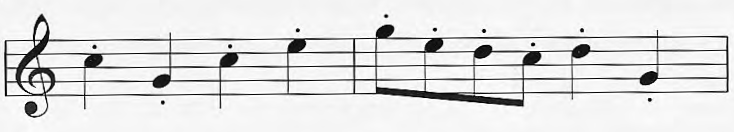
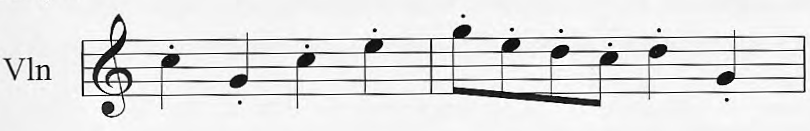
extract_partituri: scanare 0/-10/+10 grade de sus in jos, linii gri (nu alb inchis), L=1/10 din latime, includerea randurilor de text singure langa partitura, oprire la bara de masura + gol (nu mai lipeste portative vecine), albire paragrafe pe imaginea de decizie

diff --git a/extract_partituri.py b/extract_partituri.py
@@ -89,7 +89,9 @@ except ImportError:
 # ---------------------------------------------------------------------------
 ALB = 235           # pixel >= ALB  -> "alb sau aproape alb" (nu gri)
 GRI_INCHIS = 140    # pixel <  GRI_INCHIS -> cerneala (negru / gri inchis)
-CERNEALA = 200      # pixel <  CERNEALA -> poate fi linie (negru sau gri)
+CERNEALA = 208      # pixel <  CERNEALA -> poate fi linie: negru SAU gri,
+                    # dar nu gri foarte deschis (ala e "alb inchis")
+FRACT_LATIME = 0.10 # lungimea minima a liniilor cautate ~ 1/10 din latimea paginii
 PRAG_COLOR = 22     # diferenta max intre canalele R/G/B ca un pixel sa fie "gri"
 FRACT_COLOR = 0.02  # >2% pixeli colorati -> imaginea e "color"
 ACOPERIRE_SCAN = 0.8  # o imagine care acopera >=80% din pagina = scanul paginii
@@ -356,15 +358,20 @@ def etapa2_filtrare_imagini(doc, zone_sterse):
 # ETAPA 3 - detectarea partiturilor (segmente de linie + grupare)
 # ===========================================================================
 def segmente_orizontale(gray, masca_permisa, dpi):
-    """Gaseste SEGMENTELE de linie orizontala (gri sau negre) din imagine,
-    folosind o fereastra plata 1 x L (deschidere morfologica): raman doar
-    pixelii care fac parte din serii orizontale continue de cel putin L.
+    """Gaseste SEGMENTELE de linie orizontala din imagine, folosind o
+    fereastra plata 1 x L (deschidere morfologica): raman doar pixelii
+    care fac parte din serii orizontale continue de cel putin L.
+
+    Fereastra "se deplaseaza de sus in jos": segmentele sunt intoarse in
+    ordinea de sus in jos a paginii. Liniile cautate pot fi NEGRE sau GRI
+    (pixel < CERNEALA), dar nu gri foarte deschis (ala e alb inchis).
+    Lungimea de scanare L este ~1/10 din LATIMEA paginii.
 
     Intoarce lista de (y_centru, x_stanga, x_dreapta), doar linii SUBTIRI
     (liniile de portativ au 1-3 pixeli; textul si pozele sunt mai inalte).
     """
-    L = max(40, int(dpi * 0.30))                 # ~0.8 cm la 200 dpi
-    grosime_max = max(4, int(round(dpi / 30.0))) # ~7 px la 200 dpi
+    L = max(20, int(round(gray.shape[1] * FRACT_LATIME)))  # ~1/10 din latime
+    grosime_max = max(4, int(round(dpi / 30.0)))           # ~7 px la 200 dpi
     binar = ((gray < CERNEALA) & masca_permisa).astype(np.uint8)
     deschis = cv2.morphologyEx(binar, cv2.MORPH_OPEN, np.ones((1, L), np.uint8))
     n, _, stats, cent = cv2.connectedComponentsWithStats(deschis, 8)
@@ -438,11 +445,15 @@ def grupeaza_segmente(segs, gray, dpi):
     return [g["linii"] for g in grupuri if len(g["linii"]) >= 2]
 
 
-def rafineaza_chenar(rot, x0, y0, x1, y1, interlinie, si_vertical=True):
+def rafineaza_chenar(rot, x0, y0, x1, y1, interlinie, si_vertical=True, miez=None):
     """Extinde chenarul unei partituri (in imaginea deja indreptata) pana
     intalneste spatiu alb in toate directiile, cu o toleranta de ~1.5
     interlinii (ca sa prinda notele, codiletele, legato-urile si liniile
-    de portativ ratate de detectie), apoi adauga o margine alba mica."""
+    de portativ ratate de detectie), apoi adauga o margine alba mica.
+
+    Extinderea ORIZONTALA se uita doar in banda miezului (liniile
+    portativului +/- 2 interlinii), ca sa nu "mearga" pe randurile de
+    text/legendele portativului vecin, aflate mai sus sau mai jos."""
     h, w = rot.shape
     look = max(6, int(interlinie * 1.5))
     look_x = max(5, int(interlinie))   # orizontal mai strans: nu lipim
@@ -465,21 +476,46 @@ def rafineaza_chenar(rot, x0, y0, x1, y1, interlinie, si_vertical=True):
         if rnd.size == 0:
             break
         y1 = y1 + int(rnd[-1]) + 1
-    # stanga
+    # stanga / dreapta: doar in banda miezului (liniile +/- 2 interlinii)
+    if miez is not None:
+        hy0 = max(y0, int(miez[0] - 2 * interlinie))
+        hy1 = min(y1, int(miez[1] + 2 * interlinie))
+    else:
+        hy0, hy1 = y0, y1
+
+    def _bara_la_margine(xa, xb):
+        """Exista o bara de masura (linie verticala pe toata inaltimea
+        miezului) intre coloanele xa..xb? Un portativ terminat cu bara,
+        urmat de gol, NU se mai extinde peste gol (acolo incepe
+        portativul vecin)."""
+        if miez is None:
+            return False
+        my0 = max(0, int(miez[0] - 2)); my1 = min(h, int(miez[1] + 3))
+        banda = rot[my0:my1, max(0, xa):min(w, xb)]
+        if banda.size == 0:
+            return False
+        col_ink = (banda < CERNEALA).mean(axis=0)
+        return bool((col_ink >= 0.85).any())
+
     limita = max(0, x0 - lim_x)
     while x0 > limita:
-        banda = rot[y0:y1, max(0, x0 - look_x):x0]
+        banda = rot[hy0:hy1, max(0, x0 - look_x):x0]
         col = np.where((banda < CERNEALA).any(axis=0))[0]
         if col.size == 0:
             break
+        gol = banda.shape[1] - 1 - int(col[-1])
+        if gol >= 3 and _bara_la_margine(x0, x0 + int(2 * interlinie)):
+            break  # portativul incepe cu bara, golul e al vecinului
         x0 = max(0, x0 - look_x) + int(col[0])
     # dreapta
     limita = min(w, x1 + lim_x)
     while x1 < limita:
-        banda = rot[y0:y1, x1:min(w, x1 + look_x)]
+        banda = rot[hy0:hy1, x1:min(w, x1 + look_x)]
         col = np.where((banda < CERNEALA).any(axis=0))[0]
         if col.size == 0:
             break
+        if int(col[0]) >= 3 and _bara_la_margine(x1 - int(2 * interlinie), x1):
+            break  # portativ terminat cu bara + gol -> nu sarim golul
         x1 = x1 + int(col[-1]) + 1
 
     # margine alba mica de jur imprejur (orizontal mai putin, ca sa nu
@@ -522,47 +558,134 @@ def crop_arata_a_partitura(crop):
     return alb >= 0.45 and gri <= 0.30
 
 
-def masca_text_pagina(page, majoritar, dpi, shape):
-    """Masca (True = text de corp) construita din stratul de text al
-    paginii: randurile LUNGI scrise majoritar cu formatul majoritar.
-    Randurile scurte (ex. "Vln", "Vla" - etichetele partiturilor) raman
-    neatinse. Folosita ca IMAGINE DE DECIZIE: detectia si extinderea
-    chenarelor trateaza aceste zone ca alb, ca sa nu muste din paragrafe;
-    crop-ul exportat se taie insa din imaginea reala."""
-    m = np.zeros(shape, dtype=bool)
-    if not majoritar:
-        return m
+def analizeaza_text_pagina(page, majoritar, dpi, shape):
+    """Analizeaza stratul de text al paginii si intoarce:
+
+    1. masca_paragrafe (True = text de corp): randurile care fac parte din
+       PARAGRAFE (au un alt rand de text imediat deasupra sau dedesubt).
+       Ele devin "albe" in imaginea de DECIZIE, ca detectia si extinderea
+       chenarelor sa nu muste din paragrafe.
+    2. randuri_izolate: dreptunghiuri (in pixeli) ale randurilor SINGURE
+       (un singur rand, nu doua suprapuse/stivuite). Acestea sunt titluri,
+       legende sau etichete (ex. "Vln", "Violin Open Strings") si se
+       INCLUD in imaginea partiturii daca sunt in interiorul ei ori
+       imediat deasupra, sub, la stanga sau la dreapta ei.
+    """
+    masca = np.zeros(shape, dtype=bool)
+    izolate = []
     scale = dpi / 72.0
     h, w = shape
+
+    randuri = []  # (rect, text)
     for bloc in page.get_text("dict").get("blocks", []):
         if bloc.get("type", 0) != 0:
             continue
         for linie in bloc.get("lines", []):
             spans = linie.get("spans", [])
             text = "".join(s.get("text", "") for s in spans).strip()
-            if len(text) < 12:
-                continue  # randurile scurte pot fi etichete muzicale
+            if len(text) < 2:
+                continue  # "randuri" fantoma de 1 caracter: de obicei note
+                          # sau simboluri muzicale citite gresit de OCR
             n_tot = sum(len(s.get("text", "").strip()) for s in spans) or 1
             n_maj = sum(len(s.get("text", "").strip()) for s in spans
                         if cheie_format(s) == majoritar)
-            if n_maj / n_tot < 0.5:
+            randuri.append((fitz.Rect(linie["bbox"]), text, n_maj / n_tot))
+
+    # Un rand are "vecin" daca alt rand de text e imediat deasupra sau
+    # dedesubt (gol vertical mic) -> paragraf. Nu cerem suprapunere
+    # orizontala: OCR-ul rupe uneori randurile in bucati mici, cu goluri
+    # mari unde nu a recunoscut cuvintele; e suficient ca bucatile sa fie
+    # in aceeasi coloana de text (distanta orizontala rezonabila).
+    lat_pag = float(page.rect.width)
+    are_vecin = [False] * len(randuri)
+    for i in range(len(randuri)):
+        ri = randuri[i][0]
+        for j in range(i + 1, len(randuri)):
+            rj = randuri[j][0]
+            gol_h = max(0.0, max(ri.x0 - rj.x1, rj.x0 - ri.x1))
+            if gol_h > 0.25 * lat_pag:
                 continue
-            x0, y0, x1, y1 = rect_px(fitz.Rect(linie["bbox"]), scale)
-            m[max(0, y0 - 2):min(h, y1 + 2), max(0, x0 - 2):min(w, x1 + 2)] = True
-    return m
+            gol_v = max(ri.y0 - rj.y1, rj.y0 - ri.y1)
+            # bucatile din ACELASI rand vizual nu se considera vecine
+            # (ex. mai multe titluri scurte, unul lânga altul)
+            ov_v = -gol_v
+            if ov_v >= 0.5 * min(ri.height, rj.height):
+                continue
+            if gol_v < 0.9 * max(ri.height, rj.height):
+                are_vecin[i] = are_vecin[j] = True
+
+    for (r, text, fract_maj), vecin in zip(randuri, are_vecin):
+        x0, y0, x1, y1 = rect_px(r, scale)
+        if vecin:
+            # rand de paragraf -> albit in imaginea de decizie (indiferent
+            # de format: albirea e doar pentru detectie, nu sterge nimic)
+            if len(text) >= 8:
+                masca[max(0, y0 - 2):min(h, y1 + 2),
+                      max(0, x0 - 2):min(w, x1 + 2)] = True
+        else:
+            izolate.append((max(0, x0 - 2), max(0, y0 - 2),
+                            min(w, x1 + 2), min(h, y1 + 2)))
+    return masca, izolate
 
 
-def scaneaza_pagina(gray, gray_dec, masca_permisa, dpi):
-    """Scaneaza pagina cu fereastra plata, inclinata de la -10 la +10 grade
-    (pas de 1 grad). Detectiile din toate trecerile sunt adunate, apoi
+def rects_in_cadru(rects, M):
+    """Transforma dreptunghiurile (px, pagina nerotita) in cadrul rotit."""
+    if M is None:
+        return list(rects)
+    out = []
+    for (x0, y0, x1, y1) in rects:
+        pts = np.array([[x0, y0], [x1, y0], [x1, y1], [x0, y1]], dtype=np.float64)
+        tr = np.hstack([pts, np.ones((4, 1))]) @ M.T
+        out.append((float(tr[:, 0].min()), float(tr[:, 1].min()),
+                    float(tr[:, 0].max()), float(tr[:, 1].max())))
+    return out
+
+
+def include_randuri_izolate(box, randuri, interlinie, w, h, miez=None):
+    """Extinde chenarul partiturii ca sa cuprinda randurile de text SINGURE
+    aflate in interior, deasupra, sub, la stanga sau la dreapta ei.
+
+    O singura trecere, fata de chenarul ORIGINAL (fara inlantuire: un rand
+    inclus nu trage dupa el alte randuri mai indepartate). Regula pentru
+    stanga/dreapta cere ca randul (ex. eticheta "Vln") sa fie la nivelul
+    liniilor portativului (miez = (y_prima_linie, y_ultima_linie))."""
+    x0, y0, x1, y1 = box
+    nx0, ny0, nx1, ny1 = x0, y0, x1, y1
+    miez_y0, miez_y1 = miez if miez else (y0, y1)
+    for (rx0, ry0, rx1, ry1) in randuri:
+        ov_h = min(x1, rx1) - max(x0, rx0)
+        ov_v = min(y1, ry1) - max(y0, ry0)
+        gol_v = max(0.0, max(y0 - ry1, ry0 - y1))
+        gol_h = max(0.0, max(x0 - rx1, rx0 - x1))
+        centru_r = 0.5 * (ry0 + ry1)
+        in_interior = ov_h > 0 and ov_v > 0
+        deasupra_sub = (ov_h >= 0.2 * (rx1 - rx0) and gol_v <= 3 * interlinie
+                        and gol_h == 0.0)
+        stanga_dreapta = (gol_h <= 4 * interlinie and gol_v == 0.0
+                          and miez_y0 - interlinie <= centru_r <= miez_y1 + interlinie)
+        if in_interior or deasupra_sub or stanga_dreapta:
+            nx0 = min(nx0, int(rx0)); ny0 = min(ny0, int(ry0))
+            nx1 = max(nx1, int(rx1)); ny1 = max(ny1, int(ry1))
+    return (max(0, nx0), max(0, ny0), min(w, nx1), min(h, ny1))
+
+
+def scaneaza_pagina(gray, gray_dec, masca_permisa, dpi, randuri_izolate=()):
+    """Scaneaza pagina cu fereastra plata, deplasand-o de sus in jos.
+    Ordinea trecerilor: intai drept (0 grade), apoi treptat cate 1 grad in
+    JOS de 10 ori (-1..-10), apoi cate 1 grad in SUS de 10 ori (+1..+10) -
+    unghiul se tot schimba pana sunt gasite partiturile cu cel putin 2
+    linii paralele. Detectiile din toate trecerile sunt adunate, apoi
     duplicatele (aceeasi partitura vazuta la unghiuri vecine) sunt
     eliminate, pastrand varianta cu cele mai multe linii / cele mai lungi /
-    cel mai mic unghi. Crop-urile intoarse sunt deja INDREPTATE."""
+    cel mai mic unghi. Crop-urile intoarse sunt deja INDREPTATE, iar
+    randurile de text SINGURE din jurul partiturii sunt incluse in ele."""
     h, w = gray.shape
     centru = (w / 2.0, h / 2.0)
     candidati = []
 
-    for unghi in range(-10, 11):  # 21 de treceri: -10..+10, pas 1 grad
+    # 0 grade, apoi 10 treceri cu grade in jos, apoi 10 cu grade in sus
+    unghiuri = [0] + [-a for a in range(1, 11)] + [a for a in range(1, 11)]
+    for unghi in unghiuri:
         if unghi == 0:
             rot, rot_dec, rot_masca, M = gray, gray_dec, masca_permisa, None
         else:
@@ -578,6 +701,7 @@ def scaneaza_pagina(gray, gray_dec, masca_permisa, dpi):
         segs = segmente_orizontale(rot_dec, rot_masca, dpi)
         grupuri = grupeaza_segmente(segs, rot_dec, dpi)
         M_inv = cv2.invertAffineTransform(M) if M is not None else None
+        randuri_rot = rects_in_cadru(randuri_izolate, M)
 
         for g in grupuri:
             ys = [l[0] for l in g]
@@ -588,7 +712,11 @@ def scaneaza_pagina(gray, gray_dec, masca_permisa, dpi):
             # directiile (prinde notele, legato-urile si liniile ratate).
             # Decizia se ia pe imaginea FARA text de corp (rot_dec).
             x0, y0, x1, y1 = rafineaza_chenar(rot_dec, xs0, ys[0], xs1, ys[-1] + 1,
-                                              interlinie)
+                                              interlinie, miez=(ys[0], ys[-1]))
+            # Includem randurile de text SINGURE din jurul partiturii.
+            x0, y0, x1, y1 = include_randuri_izolate((x0, y0, x1, y1),
+                                                     randuri_rot, interlinie, w, h,
+                                                     miez=(ys[0], ys[-1]))
             crop = rot[y0:y1, x0:x1].copy()  # crop-ul e deja INDREPTAT
             nr_linii = max(len(g), numara_linii_in_chenar(rot_dec, x0, y0, x1, y1))
 
@@ -640,11 +768,16 @@ def scaneaza_pagina(gray, gray_dec, masca_permisa, dpi):
         interlinie = max(a["interlinie"], b["interlinie"])
         if gol > 3 * interlinie:
             return False
-        # exista cerneala in fasia dintre chenare? (liniile continua)
+        # liniile continua prin gol doar daca exista RANDURI de pixeli
+        # intunecati care traverseaza fasia dintre chenare aproape complet
+        # (cel putin 2 linii paralele care merg mai departe)
         fy0 = max(0, max(ay0, by0)); fy1 = min(h, min(ay1, by1))
         fx0 = max(0, stanga["bbox"][2]); fx1 = min(w, dreapta["bbox"][0])
         fasie = gray[fy0:fy1, fx0:fx1]
-        return fasie.size > 0 and float((fasie < GRI_INCHIS).mean()) > 0.01
+        if fasie.size == 0:
+            return False
+        randuri_pline = ((fasie < CERNEALA).mean(axis=1) >= 0.6)
+        return int(randuri_pline.sum()) >= 2
 
     unite = True
     while unite:
@@ -679,6 +812,10 @@ def scaneaza_pagina(gray, gray_dec, masca_permisa, dpi):
                 # fragmentelor (extindem doar orizontal)
                 cx0, cy0, cx1, cy1 = rafineaza_chenar(rot2_dec, cx0, cy0, cx1, cy1,
                                                       interlinie, si_vertical=False)
+                cx0, cy0, cx1, cy1 = include_randuri_izolate(
+                    (cx0, cy0, cx1, cy1),
+                    rects_in_cadru(randuri_izolate, M2 if unghi != 0 else None),
+                    interlinie, w, h)
                 nou = {
                     "bbox": bb,
                     "unghi": unghi,
@@ -716,12 +853,14 @@ def etapa3_partituri(doc, dpi, zone_sterse, out_dir, majoritar=None):
         for r in zone_sterse[pno]:
             x0, y0, x1, y1 = rect_px(r, scale)
             masca[max(0, y0):min(h, y1), max(0, x0):min(w, x1)] = False
-        # imaginea de DECIZIE: textul de corp (format majoritar, randuri
-        # lungi) devine alb, ca sa nu fie confundat cu partiturile si sa
-        # nu fie inclus in chenare
+        # imaginea de DECIZIE: paragrafele (randuri de text stivuite) devin
+        # albe, ca sa nu fie confundate cu partiturile si sa nu fie incluse
+        # in chenare; randurile SINGURE raman si se ataseaza partiturilor
+        masca_par, randuri_izolate = analizeaza_text_pagina(page, majoritar,
+                                                            dpi, gray.shape)
         gray_dec = gray.copy()
-        gray_dec[masca_text_pagina(page, majoritar, dpi, gray.shape)] = 255
-        gasite = scaneaza_pagina(gray, gray_dec, masca, dpi)
+        gray_dec[masca_par] = 255
+        gasite = scaneaza_pagina(gray, gray_dec, masca, dpi, randuri_izolate)
         gasite.sort(key=lambda p: (p["bbox"][1], p["bbox"][0]))
         detectii.append(gasite)
         if gasite:
